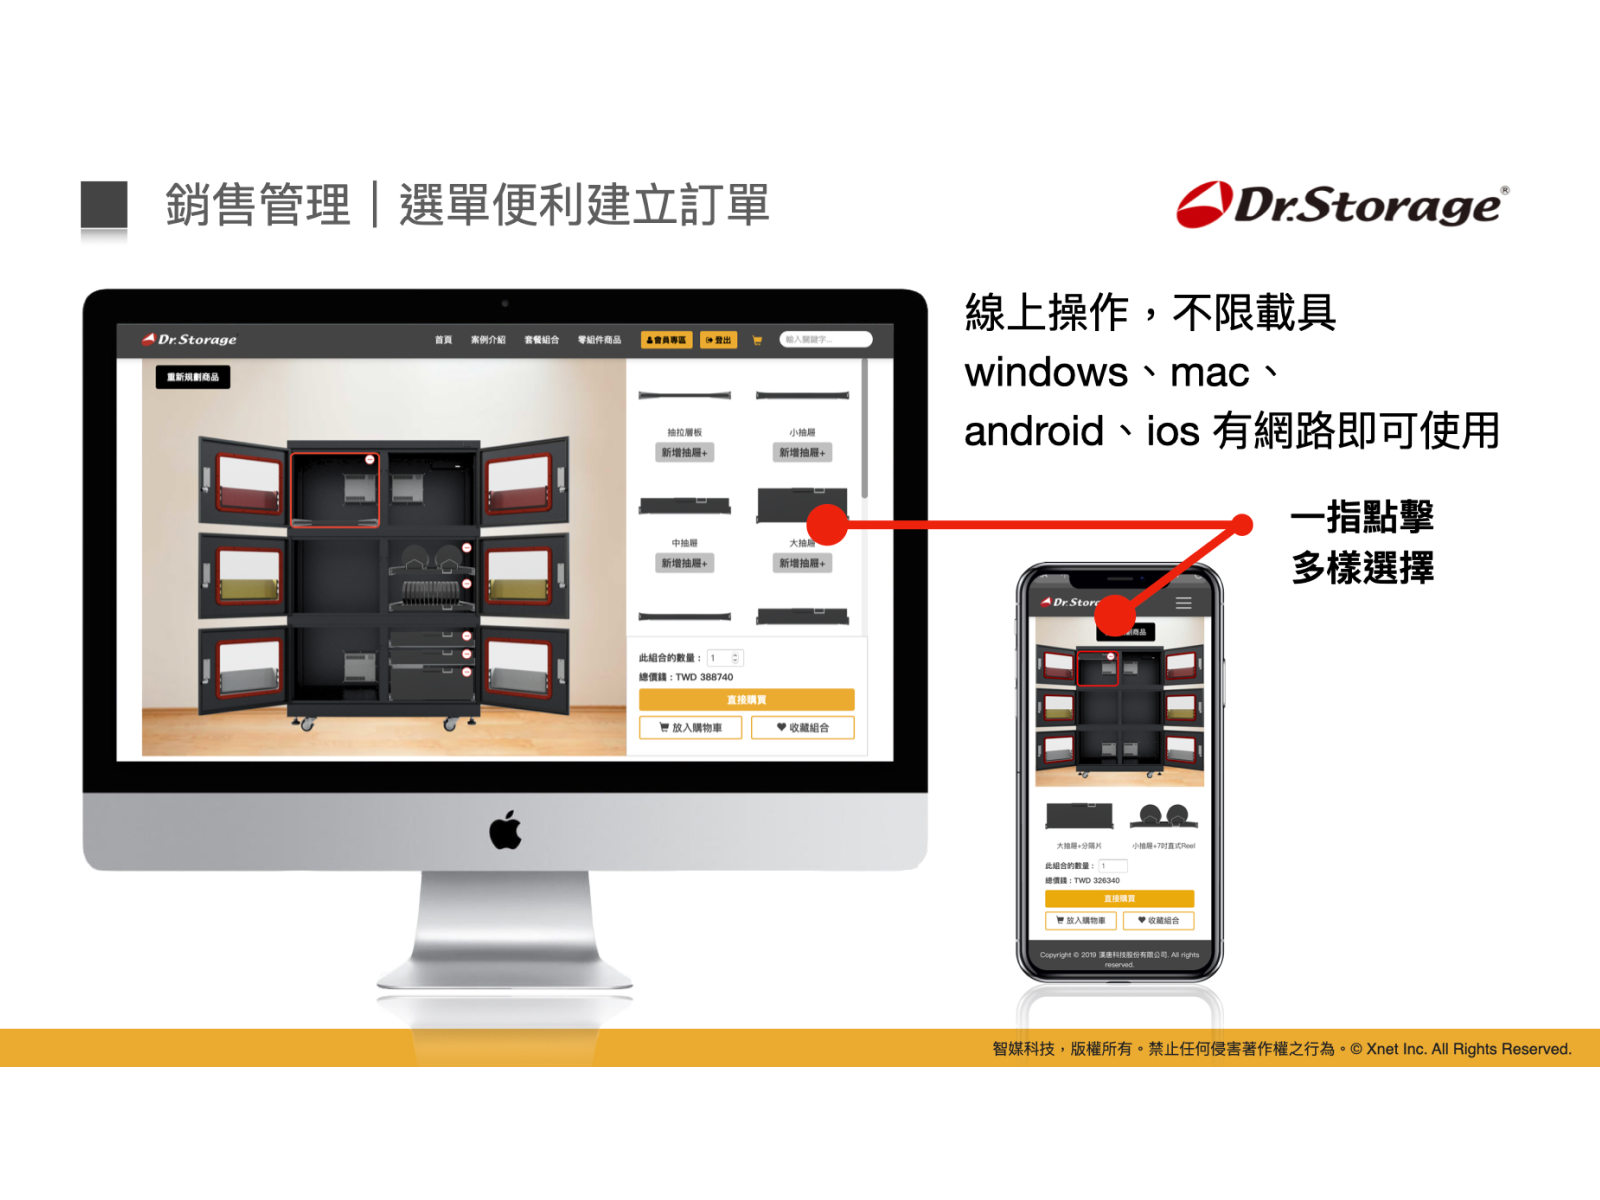
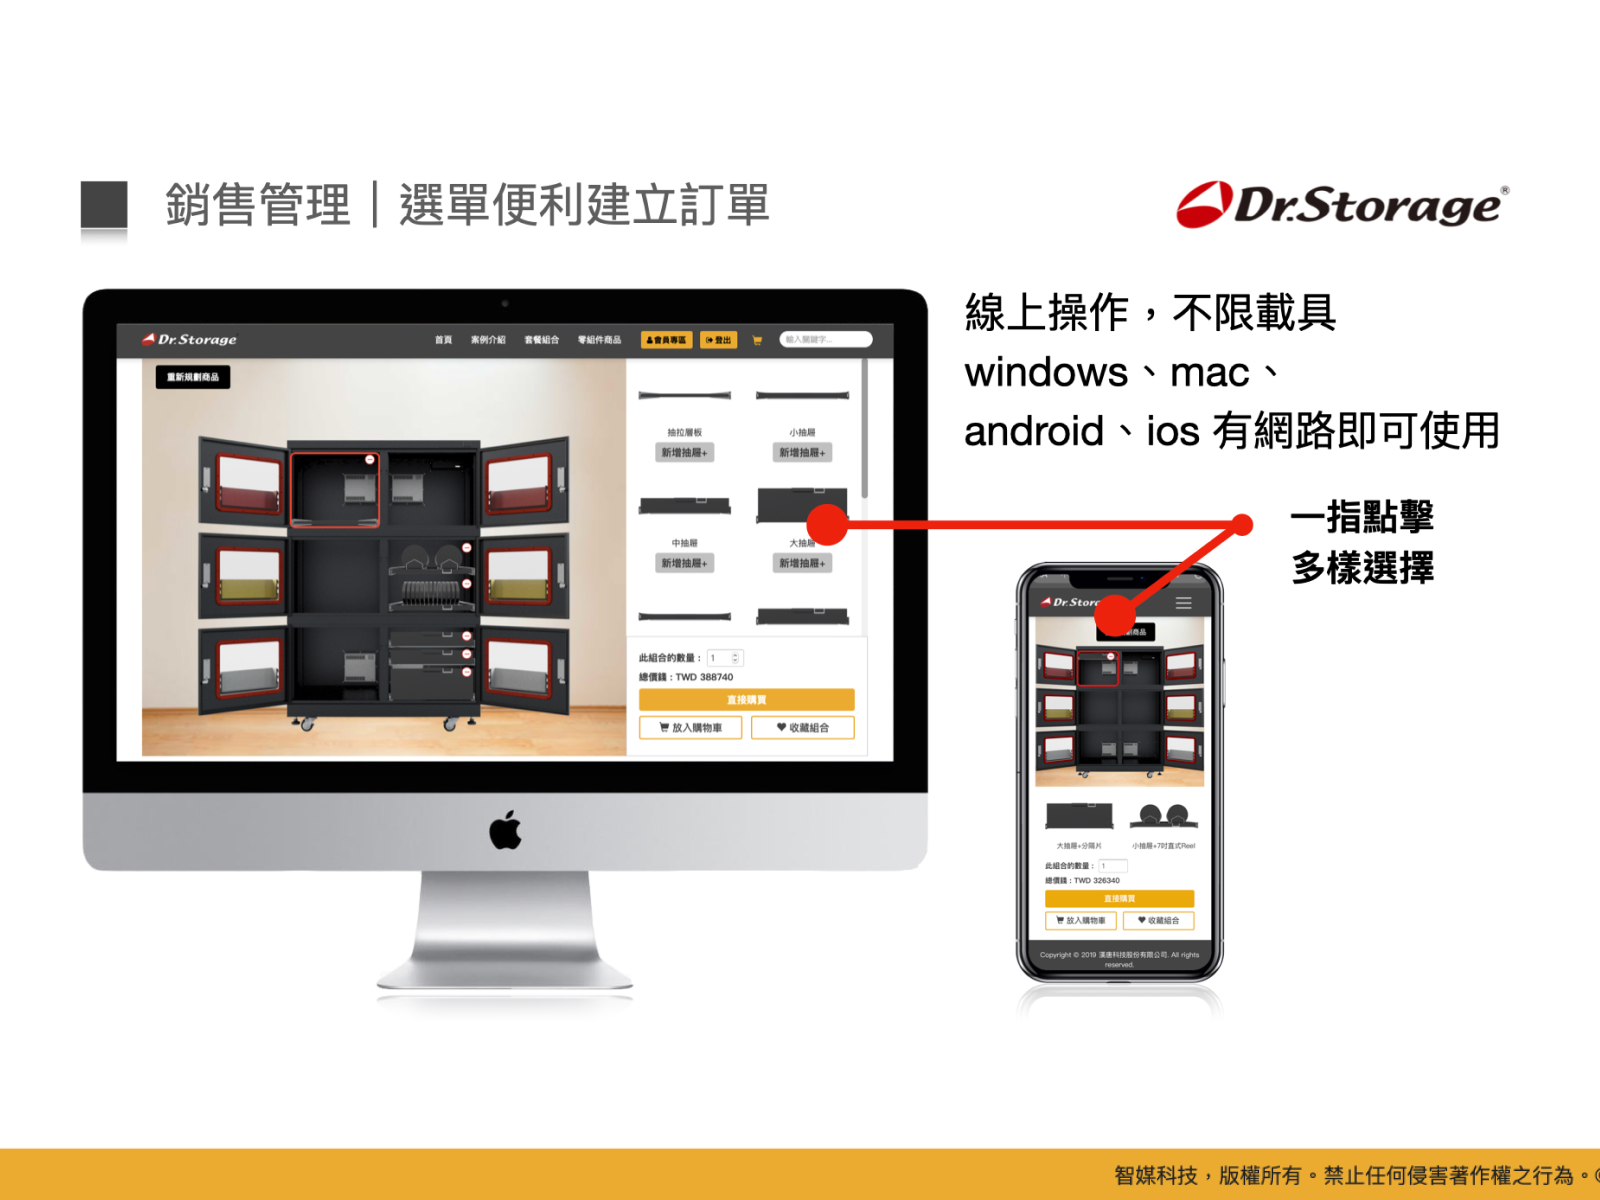
更新 copyright 年份、sales-02 圖片，並整理文件至 doc/
- copyright 2024 → 2026（index.html 與 index-demo.html 各 4 處頁尾；
  時間軸與經歷的 2024 年份為實際日期，未變動）
- images/sales-02.jpg 換為新版（Dr.Storage 銷售管理選單，1600×1200）
- 文件集中至 doc/：IMAGES.md、IMAGE-NAMING.md（原 images/README.md），
  新增 DEPLOY.md 記錄網域／DNS／HTTPS 設定與日常更新流程
- 修正 README.md 與 IMAGE-NAMING.md 中的交叉引用路徑

Changed region(s): [[0.0, 0.9558, 1.0, 1.0], [0.0, 0.8325, 1.0, 0.8942]]

diff --git a/index-demo.html b/index-demo.html
@@ -1872,7 +1872,7 @@ body.theme-dark .ink-atmosphere svg { filter: invert(0.9) hue-rotate(180deg); }
   <footer class="page-footer">
     <div class="page-footer__inner">
       <div>Game Art · Chapter I</div>
-      <div>© 2024 YULI · Taipei</div>
+      <div>© 2026 YULI · Taipei</div>
     </div>
   </footer>
 </section>
@@ -2149,7 +2149,7 @@ body.theme-dark .ink-atmosphere svg { filter: invert(0.9) hue-rotate(180deg); }
   <footer class="page-footer">
     <div class="page-footer__inner">
       <div>Project Management · Chapter II</div>
-      <div>© 2024 YULI · Taipei</div>
+      <div>© 2026 YULI · Taipei</div>
     </div>
   </footer>
 </section>
@@ -2475,7 +2475,7 @@ body.theme-dark .ink-atmosphere svg { filter: invert(0.9) hue-rotate(180deg); }
   <footer class="page-footer">
     <div class="page-footer__inner">
       <div>Chronology · 職 涯 履 歷</div>
-      <div>© 2024 YULI · Taipei</div>
+      <div>© 2026 YULI · Taipei</div>
     </div>
   </footer>
 </section>
@@ -2603,7 +2603,7 @@ body.theme-dark .ink-atmosphere svg { filter: invert(0.9) hue-rotate(180deg); }
   <footer class="page-footer">
     <div class="page-footer__inner">
       <div>Contact · 聯 絡</div>
-      <div>© 2024 YULI · designed & authored in Taipei</div>
+      <div>© 2026 YULI · designed & authored in Taipei</div>
     </div>
   </footer>
 </section>

diff --git a/index.html b/index.html
@@ -1874,7 +1874,7 @@ body.theme-dark .ink-atmosphere svg { filter: invert(0.9) hue-rotate(180deg); }
   <footer class="page-footer">
     <div class="page-footer__inner">
       <div>Game Art · Chapter I</div>
-      <div>© 2024 YULI · Taipei</div>
+      <div>© 2026 YULI · Taipei</div>
     </div>
   </footer>
 </section>
@@ -2151,7 +2151,7 @@ body.theme-dark .ink-atmosphere svg { filter: invert(0.9) hue-rotate(180deg); }
   <footer class="page-footer">
     <div class="page-footer__inner">
       <div>Project Management · Chapter II</div>
-      <div>© 2024 YULI · Taipei</div>
+      <div>© 2026 YULI · Taipei</div>
     </div>
   </footer>
 </section>
@@ -2477,7 +2477,7 @@ body.theme-dark .ink-atmosphere svg { filter: invert(0.9) hue-rotate(180deg); }
   <footer class="page-footer">
     <div class="page-footer__inner">
       <div>Chronology · 職 涯 履 歷</div>
-      <div>© 2024 YULI · Taipei</div>
+      <div>© 2026 YULI · Taipei</div>
     </div>
   </footer>
 </section>
@@ -2605,7 +2605,7 @@ body.theme-dark .ink-atmosphere svg { filter: invert(0.9) hue-rotate(180deg); }
   <footer class="page-footer">
     <div class="page-footer__inner">
       <div>Contact · 聯 絡</div>
-      <div>© 2024 YULI · designed & authored in Taipei</div>
+      <div>© 2026 YULI · designed & authored in Taipei</div>
     </div>
   </footer>
 </section>

diff --git a/doc/DEPLOY.md b/doc/DEPLOY.md
@@ -1,0 +1,135 @@
+# 上線與維護手冊
+
+本站的部署現況、日常更新流程、以及遇到問題時的查修清單。
+
+---
+
+## 現況
+
+| 項目 | 值 |
+|---|---|
+| 正式網址 | https://yuli.playplay.games/ |
+| GitHub repo | [buzzpu/yuli-portfolio](https://github.com/buzzpu/yuli-portfolio) · public |
+| 部署方式 | GitHub Pages · `main` 分支 · `/` (root) |
+| 網域 DNS | Cloudflare · `yuli` CNAME → `buzzpu.github.io` · **DNS only（灰雲）** |
+| HTTPS | Let's Encrypt 自動簽發 · `Enforce HTTPS` 已開啟 |
+| 舊網址 | `buzzpu.github.io/yuli-portfolio/` → 301 轉至正式網址 |
+| commit 身分 | 僅此 repo：`yuli <buzz.pu@gmail.com>` |
+
+不需要 Vercel 或任何 build 工具 —— 純靜態 HTML，Pages 直接吃。
+
+---
+
+## 日常更新流程
+
+改完檔案後：
+
+```bash
+cd ~/Downloads/yuli-portfolio
+git add -A
+git commit -m "換掉 Ali Baba 的主視覺"
+git push
+```
+
+Push 後約 1 分鐘網站更新。看不到變化先按 `Cmd`+`Shift`+`R` 強制重新整理，瀏覽器很愛快取圖片。
+
+Commit 訊息寫「改了什麼」而不是「改了檔案」。未來想找「主視覺是哪次換的」時，`換掉 Ali Baba 的主視覺` 有用，`update` 沒用。
+
+### 換圖片的完整步驟
+
+1. 依 `doc/IMAGES.md` 的規格表確認尺寸與比例
+2. 用 [squoosh.app](https://squoosh.app) 壓縮（JPG 品質 82 或 WebP 品質 80）
+3. 檔名依 `data-slot` 命名，覆蓋 `images/` 裡的同名檔案
+4. `git add -A && git commit && git push`
+
+檔名清單見 `doc/IMAGE-NAMING.md`。
+
+---
+
+## Cloudflare DNS 設定
+
+目前只有一筆紀錄在服務這個站：
+
+| 類型 | 名稱 | 目標 | Proxy 狀態 |
+|---|---|---|---|
+| CNAME | `yuli` | `buzzpu.github.io` | **DNS only（灰雲）** |
+
+子網域只需要一筆 CNAME，不需要 4 筆 A record，也用不到 CNAME flattening（那是根網域才有的問題）。
+
+### 兩個不能踩的雷
+
+**橘雲必須關著。** 開啟 Proxy 的話，GitHub 查 DNS 只會看到 Cloudflare 的 IP、無法通過網域驗證，Let's Encrypt 憑證會簽不出來。
+
+**若之後要開橘雲，SSL 模式必須是 Full (strict)。** 想用 Cloudflare 快取而打開橘雲時，同時要到 **SSL/TLS → Overview** 設成 `Full (strict)`。留在預設的 `Flexible` 會造成無限轉址（`ERR_TOO_MANY_REDIRECTS`）。不確定就一直留灰雲 —— Pages 本身已經有 CDN。
+
+### 驗證指令
+
+```bash
+dig +short CNAME yuli.playplay.games        # 應回 buzzpu.github.io.
+dig +short A yuli.playplay.games            # 應回 185.199.108-111.153
+curl -I https://yuli.playplay.games/        # 應回 HTTP 200
+curl -I http://yuli.playplay.games/         # 應回 301 → https://
+```
+
+`dig` 若回傳 `104.21.x.x` 這類 IP，代表橘雲被打開了。
+
+---
+
+## 踩雷清單
+
+### 本機好好的，線上破圖
+
+幾乎都是**大小寫**。macOS 檔名不分大小寫，GitHub Pages 跑在 Linux 上會分 —— `Streamwalker-01.jpg` 和 `streamwalker-01.jpg` 在線上是兩個不同檔案。目前 27 張圖全部小寫且對得上，之後加圖要留意。
+
+### Push 被拒：rejected / non-fast-forward
+
+遠端有本機沒有的 commit。先拉再推：
+
+```bash
+git pull --rebase origin main
+git push
+```
+
+### 本機 DNS 快取造成的假象
+
+改完 Cloudflare DNS 後，macOS 的解析器可能還記著舊紀錄，導致 `curl` 連到舊 IP、看到舊的憑證。清快取：
+
+```bash
+sudo dscacheutil -flushcache
+sudo killall -HUP mDNSResponder
+```
+
+或用 `curl --resolve` 繞過快取直接測：
+
+```bash
+curl -sI --resolve yuli.playplay.games:443:185.199.108.153 https://yuli.playplay.games/
+```
+
+### Commit 沒掛在 GitHub 帳號上
+
+GitHub 用 **email** 認人，不是 commit 裡的名字。`buzz.pu@gmail.com` 必須加進 [Settings → Emails](https://github.com/settings/emails) 並完成驗證。
+
+### 底線開頭的檔案在線上消失
+
+Pages 底層是 Jekyll，會忽略 `_` 開頭的檔名。真的遇到就在根目錄放一個空的 `.nojekyll` 關掉這個行為。
+
+---
+
+## 待辦
+
+- [ ] **圖片壓縮**：目前 `images/` 共 36 MB，最重的 `streamwalker-03.jpg` 單張 3.5 MB。轉 WebP 品質 80 約可降到 6–8 MB 且肉眼無差，手機體感差異明顯。
+- [ ] **`personal-05.jpg` 比例不合**：1200×1600 直式塞在 1:1 方形格（`gallery-item--5`），`object-fit: cover` 會裁掉上下各約 1/4。主體不在正中間的話建議換到 item--3 / item--4（3:4 直式位）或重新裁切。
+- [ ] **`index-demo.html` 的處置**：目前公開可從 `/index-demo.html` 開啟，內容是 picsum 假圖，且含已在 `index.html` 修掉的畫廊 CSS bug。建議刪除或一併修正。
+
+---
+
+## 版控範圍
+
+`.gitignore` 排除了這些：
+
+| 項目 | 原因 |
+|---|---|
+| `web_img/` | 原始圖檔備份（36 MB），網站不使用，正式圖片在 `images/` |
+| `web_files/` | 開發過程的歷史版本 HTML |
+| `.DS_Store` · `*.bak` | macOS 與本機備份 |
+| `.claude/settings.local.json` | 含本機絕對路徑，不需分享 |

diff --git a/README.md b/README.md
@@ -11,9 +11,11 @@ yuli-portfolio/
 ├── index.html            主要檔案 · 所有圖片位置為空白，供填入你的真實作品
 ├── index-demo.html       示範版 · 已用 picsum.photos 填入 27 張測試圖片
 ├── README.md             本檔案 · 專案總覽、快速開始、部署指南
-├── IMAGES.md             圖片規格詳細說明 · 尺寸原理、優化流程、格式建議
-└── images/               你的作品圖片放這裡
-    └── README.md         圖片檔名對照表與命名規則
+├── doc/                  專案文件
+│   ├── IMAGES.md         圖片規格詳細說明 · 尺寸原理、優化流程、格式建議
+│   ├── IMAGE-NAMING.md   圖片檔名對照表與命名規則
+│   └── DEPLOY.md         上線與網域設定 · 日常更新流程
+└── images/               你的作品圖片放這裡（27 張）
 ```
 
 ---
@@ -34,7 +36,7 @@ yuli-portfolio/
 - 印章文字（預設「游墨」）
 
 ### Step 3 · 加入你的圖片
-1. 把作品圖片放進 `images/` 資料夾（規格見 `IMAGES.md`）
+1. 把作品圖片放進 `images/` 資料夾（規格見 `doc/IMAGES.md`）
 2. 檔名依照 `data-slot` 命名（例如 `streamwalker-01.jpg`）
 3. 在 HTML 對應位置加入 `<img>` 標籤：
 

diff --git a/doc/IMAGE-NAMING.md b/doc/IMAGE-NAMING.md
@@ -68,7 +68,7 @@
 
 ## 尺寸與大小規範
 
-詳見專案根目錄的 `IMAGES.md`。
+詳見 `doc/IMAGES.md`。
 
 ## 加入圖片到 HTML
 
